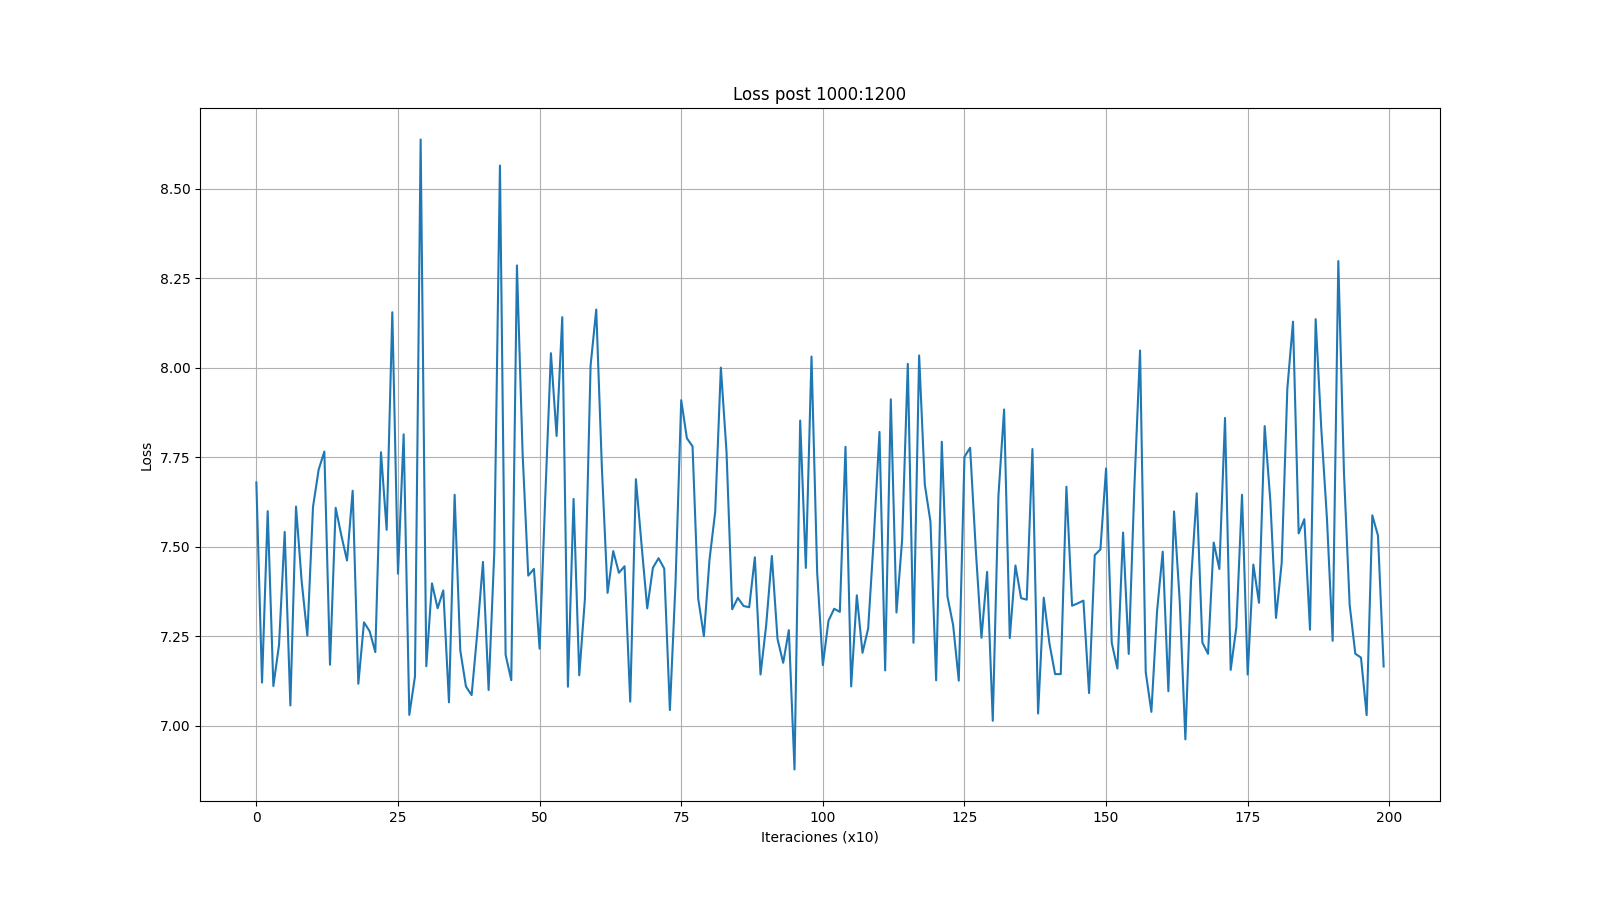
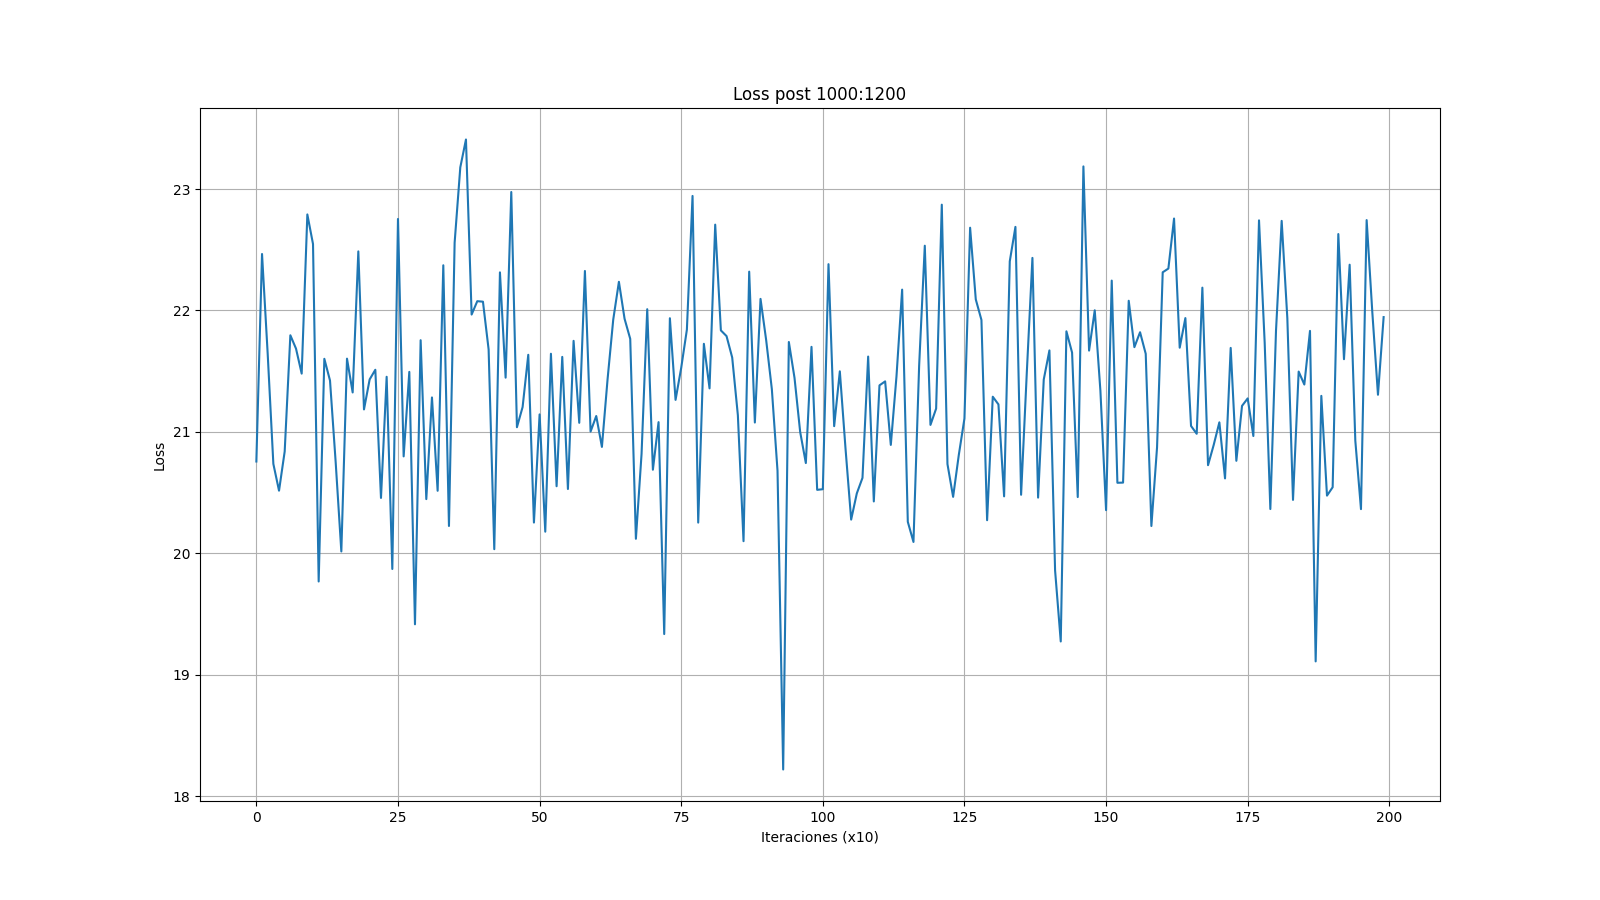
Prueba sin restricción de potencia, nota: tiende a usar máxima potencia siempre

diff --git a/RUN/utils.py b/RUN/utils.py
@@ -162,12 +162,13 @@ def get_gnn_inputs(x_tensor, channel_matrix_tensor):
         channel_matrix = channel_matrix_tensor[i,:,:]
         norm = np.linalg.norm(channel_matrix, ord = 2, axis = (0,1))
         channel_matrix_norm = channel_matrix / norm
-        channel_matrix_norm = channel_matrix
+        # channel_matrix_norm = channel_matrix
         edge_index = channel_matrix_norm.nonzero(as_tuple=False).t()
         edge_attr = channel_matrix_norm[edge_index[0], edge_index[1]]
         edge_attr = edge_attr.to(torch.float)
         input_list.append(Data(matrix=channel_matrix, x=x, edge_index=edge_index, edge_attr=edge_attr))
     return input_list
+
 def objective_function(rates):
     # sumamos solo sobre links
     sum_rate = -torch.sum(rates, dim=1)  # [batch_size]
@@ -264,26 +265,76 @@ def mu_update(mu_k, power_constr, eps):
 
 
 
-def nuevo_get_rates(phi, channel_matrix_batch, sigma, p0=4, alpha=0.3, p_rx_threshold=1e-3, eps=1e-12):
-    """
-    phi: [batch_size, num_links, num_channels] (potencia por canal)
-    channel_matrix_batch: [batch_size, num_links, num_links] (ganancias |h_ji|^2)
-    sigma: ruido (scalar o tensor compatible)
-    p0: potencia máxima por canal
-    alpha: factor de interferencia para canales solapados (0 <= alpha <= 1)
-    p_rx_threshold: umbral de potencia recibida para considerar interferencia significativa
-    eps: valor pequeño para evitar divisiones por cero
-    """
+# def nuevo_get_rates(phi, channel_matrix_batch, sigma, p0=4, alpha=0.3, p_rx_threshold=1e-3, eps=1e-12):
+#     """
+#     phi: [batch_size, num_links, num_channels] (potencia por canal)
+#     channel_matrix_batch: [batch_size, num_links, num_links] (ganancias |h_ji|^2)
+#     sigma: ruido (scalar o tensor compatible)
+#     p0: potencia máxima por canal
+#     alpha: factor de interferencia para canales solapados (0 <= alpha <= 1)
+#     p_rx_threshold: umbral de potencia recibida para considerar interferencia significativa
+#     eps: valor pequeño para evitar divisiones por cero
+#     """
+#     batch_size, num_links, num_channels = phi.shape
+
+#     # señal útil
+#     diagH = torch.diagonal(channel_matrix_batch, dim1=1, dim2=2)  # [batch, links]
+#     signal = diagH.unsqueeze(-1) * phi  # [batch, links, channels]
+
+#     # interferencia intra-canal (misma frecuencia)
+#     interf_same = torch.einsum('bij,bjc->bic', channel_matrix_batch.float(), phi.float()) - signal
+
+#     # interferencia por canales solapados
+#     interf_overlap = torch.zeros_like(interf_same)
+#     for c in range(num_channels):
+#         if c > 0:
+#             interf_overlap[:,:,c] += torch.einsum('bij,bj->bi', channel_matrix_batch.float(), phi[:,:,c-1].float())
+#         if c < num_channels - 1:
+#             interf_overlap[:,:,c] += torch.einsum('bij,bj->bi', channel_matrix_batch.float(), phi[:,:,c+1].float())
+#     interf_overlap *= alpha
+
+#     # denominador total
+#     denom = sigma + interf_same + interf_overlap
+
+#     # SINR inicial
+#     snr = signal / (denom + eps)  # [batch, links, channels]
+
+#     # Verificar colisiones por canal
+#     for c in range(num_channels):
+#         # Potencia recibida para cada par tx-rx en este canal
+#         p_rx = channel_matrix_batch * phi[:,:,c].unsqueeze(1)  # [batch, rx, tx]
+        
+#         # Máscaras de transmisores activos y potencias significativas
+#         active_tx = phi[:,:,c] > eps  # [batch, tx]
+#         significant_rx = p_rx >= p_rx_threshold  # [batch, rx, tx]
+        
+#         # Contar cuántos transmisores significativos hay para cada receptor
+#         interferers_count = (significant_rx & active_tx.unsqueeze(1)).sum(dim=2)  # [batch, rx]
+        
+#         # Invalidar SNR donde hay más de un transmisor significativo
+#         invalid_rx = interferers_count > 1  # [batch, rx]
+#         snr[:,:,c] = snr[:,:,c] * (~invalid_rx).float()
+
+#     # tasa por enlace
+#     rates = torch.sum(torch.log1p(snr), dim=-1)  # [batch, links]
+
+#     return rates
+
+
+
+
+def nuevo_get_rates(phi, channel_matrix_batch, sigma, p0=4, alpha=0.3, p_rx_threshold=1e-2, eps=1e-12):
+    """Versión corregida de nuevo_get_rates"""
     batch_size, num_links, num_channels = phi.shape
 
-    # señal útil
-    diagH = torch.diagonal(channel_matrix_batch, dim1=1, dim2=2)  # [batch, links]
-    signal = diagH.unsqueeze(-1) * phi  # [batch, links, channels]
+    # Señal útil
+    diagH = torch.diagonal(channel_matrix_batch, dim1=1, dim2=2)
+    signal = diagH.unsqueeze(-1) * phi
 
-    # interferencia intra-canal (misma frecuencia)
+    # Interferencia intra-canal
     interf_same = torch.einsum('bij,bjc->bic', channel_matrix_batch.float(), phi.float()) - signal
 
-    # interferencia por canales solapados
+    # Interferencia por canales solapados
     interf_overlap = torch.zeros_like(interf_same)
     for c in range(num_channels):
         if c > 0:
@@ -292,81 +343,28 @@ def nuevo_get_rates(phi, channel_matrix_batch, sigma, p0=4, alpha=0.3, p_rx_thre
             interf_overlap[:,:,c] += torch.einsum('bij,bj->bi', channel_matrix_batch.float(), phi[:,:,c+1].float())
     interf_overlap *= alpha
 
-    # denominador total
+    # Denominador total
     denom = sigma + interf_same + interf_overlap
-
-    # SINR inicial
-    snr = signal / (denom + eps)  # [batch, links, channels]
+    
+    # SINR por canal
+    snr = signal / (denom + eps)
 
     # Verificar colisiones por canal
     for c in range(num_channels):
-        # Potencia recibida para cada par tx-rx en este canal
-        p_rx = channel_matrix_batch * phi[:,:,c].unsqueeze(1)  # [batch, rx, tx]
+        p_ch = phi[:, :, c]
+        recv_power = channel_matrix_batch * p_ch.unsqueeze(1)
         
-        # Máscaras de transmisores activos y potencias significativas
-        active_tx = phi[:,:,c] > eps  # [batch, tx]
-        significant_rx = p_rx >= p_rx_threshold  # [batch, rx, tx]
+        tx_active = p_ch > eps
+        seen = (recv_power >= p_rx_threshold) & (tx_active.unsqueeze(1))
+        seen_count = seen.sum(dim=-1)
         
-        # Contar cuántos transmisores significativos hay para cada receptor
-        interferers_count = (significant_rx & active_tx.unsqueeze(1)).sum(dim=2)  # [batch, rx]
+        # Inválido si hay 2 o más transmisores significativos
+        invalid = seen_count >= 2
         
-        # Invalidar SNR donde hay más de un transmisor significativo
-        invalid_rx = interferers_count > 1  # [batch, rx]
-        snr[:,:,c] = snr[:,:,c] * (~invalid_rx).float()
+        # CORREGIDO: mantener SNR válido, anular inválido
+        snr[:, :, c] = snr[:, :, c] * (~invalid).float()  # ~ para negar
 
-    # tasa por enlace
-    rates = torch.sum(torch.log1p(snr), dim=-1)  # [batch, links]
-
+    # Tasa por enlace
+    rates = torch.sum(torch.log1p(snr), dim=-1)
     return rates
 
-# def nuevo_get_rates(phi, channel_matrix_batch, sigma,
-#                                     p0=4, alpha=0.3, p_rx_threshold=1e-3, eps=1e-12):
-#     """
-#     Igual que antes pero:
-#     - Si en un canal, para un receptor i, hay >=2 transmisores j tales que
-#       h_{i<-j} * p_jc >= p_rx_threshold (y p_jc > eps), entonces la recepción
-#       en ese receptor-can al es inválida (se cuenta 0 rate para ese canal).
-#     """
-#     batch_size, num_links, num_channels = phi.shape
-
-#     # señal útil
-#     diagH = torch.diagonal(channel_matrix_batch, dim1=1, dim2=2)  # [B, links]
-#     signal = diagH.unsqueeze(-1) * phi                            # [B, links, channels]
-
-#     # interferencia misma frecuencia
-#     interf_same = torch.einsum('bij,bjc->bic', channel_matrix_batch.float(), phi.float()) - signal
-
-#     # interferencia por canales solapados (vecinos inmediatos)
-#     interf_overlap = torch.zeros_like(interf_same)
-#     for c in range(num_channels):
-#         if c > 0:
-#             interf_overlap[:, :, c] += torch.einsum('bij,bj->bi', channel_matrix_batch.float(), phi[:, :, c-1].float())
-#         if c < num_channels - 1:
-#             interf_overlap[:, :, c] += torch.einsum('bij,bj->bi', channel_matrix_batch.float(), phi[:, :, c+1].float())
-#     interf_overlap *= alpha
-
-#     # denominador total por canal
-#     denom = sigma + interf_same + interf_overlap   # [B, links, channels]
-
-#     # SINR por canal
-#     snr = signal / (denom + eps)                   # [B, links, channels]
-
-#     for c in range(num_channels):
-#         p_ch = phi[:, :, c]                         # [B, L] potencia de cada tx en canal c
-#         recv_power = channel_matrix_batch * p_ch.unsqueeze(1) 
-
-#         tx_active = p_ch > eps                      # [B, L]
-#         seen = (recv_power >= p_rx_threshold) & (tx_active.unsqueeze(1))
-
-#         seen_count = seen.sum(dim=-1)               # [B, L]  (sum sobre j)
-
-#         # inválido si hay 2 o más vistos
-#         invalid = seen_count >= 2                   # [B, L]
-
-#         # anular SINR en ese canal para los receptores inválidos
-#         # (multiplicando por 0 la matriz snr[:, :, c])
-#         snr[:, :, c] = snr[:, :, c] * (invalid).float()
-
-#     # tasa por enlace: sumamos log(1+SNR) sobre canales
-#     rates = torch.sum(torch.log1p(snr), dim=-1)      # [B, L]
-#     return rates

diff --git a/RUN/train.py b/RUN/train.py
@@ -58,8 +58,6 @@ def run(building_id=990, b5g=False, num_links=5, num_channels=3, num_layers=5, K
 
     mu_k = torch.ones((1, 1), requires_grad=False)
 
-    pmax = num_links * num_channels
-
     # ---- Definición de red ----
     input_dim = 1
     hidden_dim = 1
@@ -75,13 +73,15 @@ def run(building_id=990, b5g=False, num_links=5, num_channels=3, num_layers=5, K
     dropout = False
     
     gnn_model = GNN(input_dim, hidden_dim, output_dim, num_layers, dropout, K)
-    optimizer = optim.Adam(gnn_model.parameters(), lr=mu_lr)
+    # optimizer = optim.Adam(gnn_model.parameters(), lr=mu_lr)
+    optimizer = optim.Adam(gnn_model.parameters(), lr=1e-2)
 
     objective_function_values = []
-    power_constraint_values = []
     loss_values = []
-    mu_k_values = []
     probs_values = []   
+    power_constraint_values = []
+    mu_k_values = []
+
 
     for epoc in range(epochs):
         print("Epoch number: {}".format(epoc))
@@ -90,63 +90,59 @@ def run(building_id=990, b5g=False, num_links=5, num_channels=3, num_layers=5, K
             optimizer.zero_grad()
     
             channel_matrix_batch = data.matrix
-            channel_matrix_batch = channel_matrix_batch.view(batch_size, num_links, num_links) # [64, 5, 5]
-            psi = gnn_model.forward(data.x, data.edge_index, data.edge_attr)   # [batch*num_links, num_actions]
-            psi = psi.view(batch_size, num_links, output_dim)                  # [batch, num_links, num_actions]
+            channel_matrix_batch = channel_matrix_batch.view(batch_size, num_links, num_links)
+
+            psi = gnn_model.forward(data.x, data.edge_index, data.edge_attr)   
+            psi = psi.view(batch_size, num_links, output_dim)                  
           
             # Distribución sobre acciones
-            probs = torch.softmax(psi, dim=-1)  # [batch, num_links, num_actions]
+            probs = torch.softmax(psi, dim=-1)  
 
             # Muestreamos acciones
             dist = torch.distributions.Categorical(probs=probs)
-            actions = dist.sample()                           # [batch, num_links]
-            log_p = dist.log_prob(actions)                    # [batch, num_links]
-            log_p_sum = log_p.sum(dim=1).unsqueeze(-1)        # [batch, 1]
+            actions = dist.sample()                           
+            log_p = dist.log_prob(actions)                    
+            log_p_sum = log_p.sum(dim=1).unsqueeze(-1)        
 
-            # Construimos phi [batch, num_links, num_channels]
             phi = torch.zeros(batch_size, num_links, num_channels, device=probs.device)
 
-            # Máscara de los que transmiten (acción != 0)
+            # Máscara de los que transmiten
             active_mask = (actions > 0)
 
             if active_mask.any():
-                # Para los que transmiten: calcular canal y potencia
-                actions_active = actions[active_mask] - 1                  # [N_activos]
-                channel_idx = actions_active // num_power_levels           # índice del canal
-                power_idx   = actions_active % num_power_levels            # índice de nivel de potencia
+                # índices de batch y de link de los activos
+                batch_ids, link_ids = torch.nonzero(active_mask, as_tuple=True)
 
-                # Asignar potencia discreta según el catálogo
-                phi[active_mask, channel_idx] = power_levels.to(phi.device)[power_idx]
-            
-            # --- constraint de potencia ---
-            power_constr = power_constraint(phi, pmax).unsqueeze(-1)   # [batch_size, 1]
-            power_constr_mean = torch.mean(power_constr, dim=0)
+                # acción elegida para esos activos (shift -1 porque 0 era "no transmitir")
+                actions_active = actions[batch_ids, link_ids] - 1  
+
+                # separar en canal y potencia
+                channel_idx = actions_active // num_power_levels
+                power_idx   = actions_active %  num_power_levels
+
+                # asignar potencia al canal correcto
+                phi[batch_ids, link_ids, channel_idx] = power_levels.to(phi.device)[power_idx]
 
             # Calcula rates
-            rates = nuevo_get_rates(phi, channel_matrix_batch, sigma)  # [batch_size, num_links]
+            rates = nuevo_get_rates(phi, channel_matrix_batch, sigma)  
 
             # Objective
-            sum_rate = objective_function(rates).unsqueeze(-1)  # [batch_size,1]
+            sum_rate = objective_function(rates).unsqueeze(-1)  
             sum_rate_mean = torch.mean(sum_rate, dim=0)
 
-            # Actualización de mu
-            mu_k = mu_update(mu_k, power_constr, eps)
-
-            # Cálculo del costo y backprop
-            cost = sum_rate + (power_constr * mu_k)   # [batch_size,1]
-            loss = cost * log_p_sum                   # [batch_size,1]
+            # Cálculo del costo y backprop - ahora solo considera sum_rate
+            loss = sum_rate * log_p_sum                   
             loss_mean = torch.mean(loss, dim=0)
 
             loss_mean.backward()
+            torch.nn.utils.clip_grad_norm_(gnn_model.parameters(), max_norm=1.0)
             optimizer.step()
-            
 
             if batch_idx % 10 == 0:
                 probs_values.append(probs.mean(dim=[0,1]).detach().numpy())
-                power_constraint_values.append(power_constr_mean.detach().numpy())
                 objective_function_values.append(-sum_rate_mean.detach().numpy())
                 loss_values.append(loss_mean.squeeze(-1).detach().numpy())
-                mu_k_values.append(mu_k.squeeze(-1).detach().numpy())
+
 
 
     for name, param in gnn_model.named_parameters():
